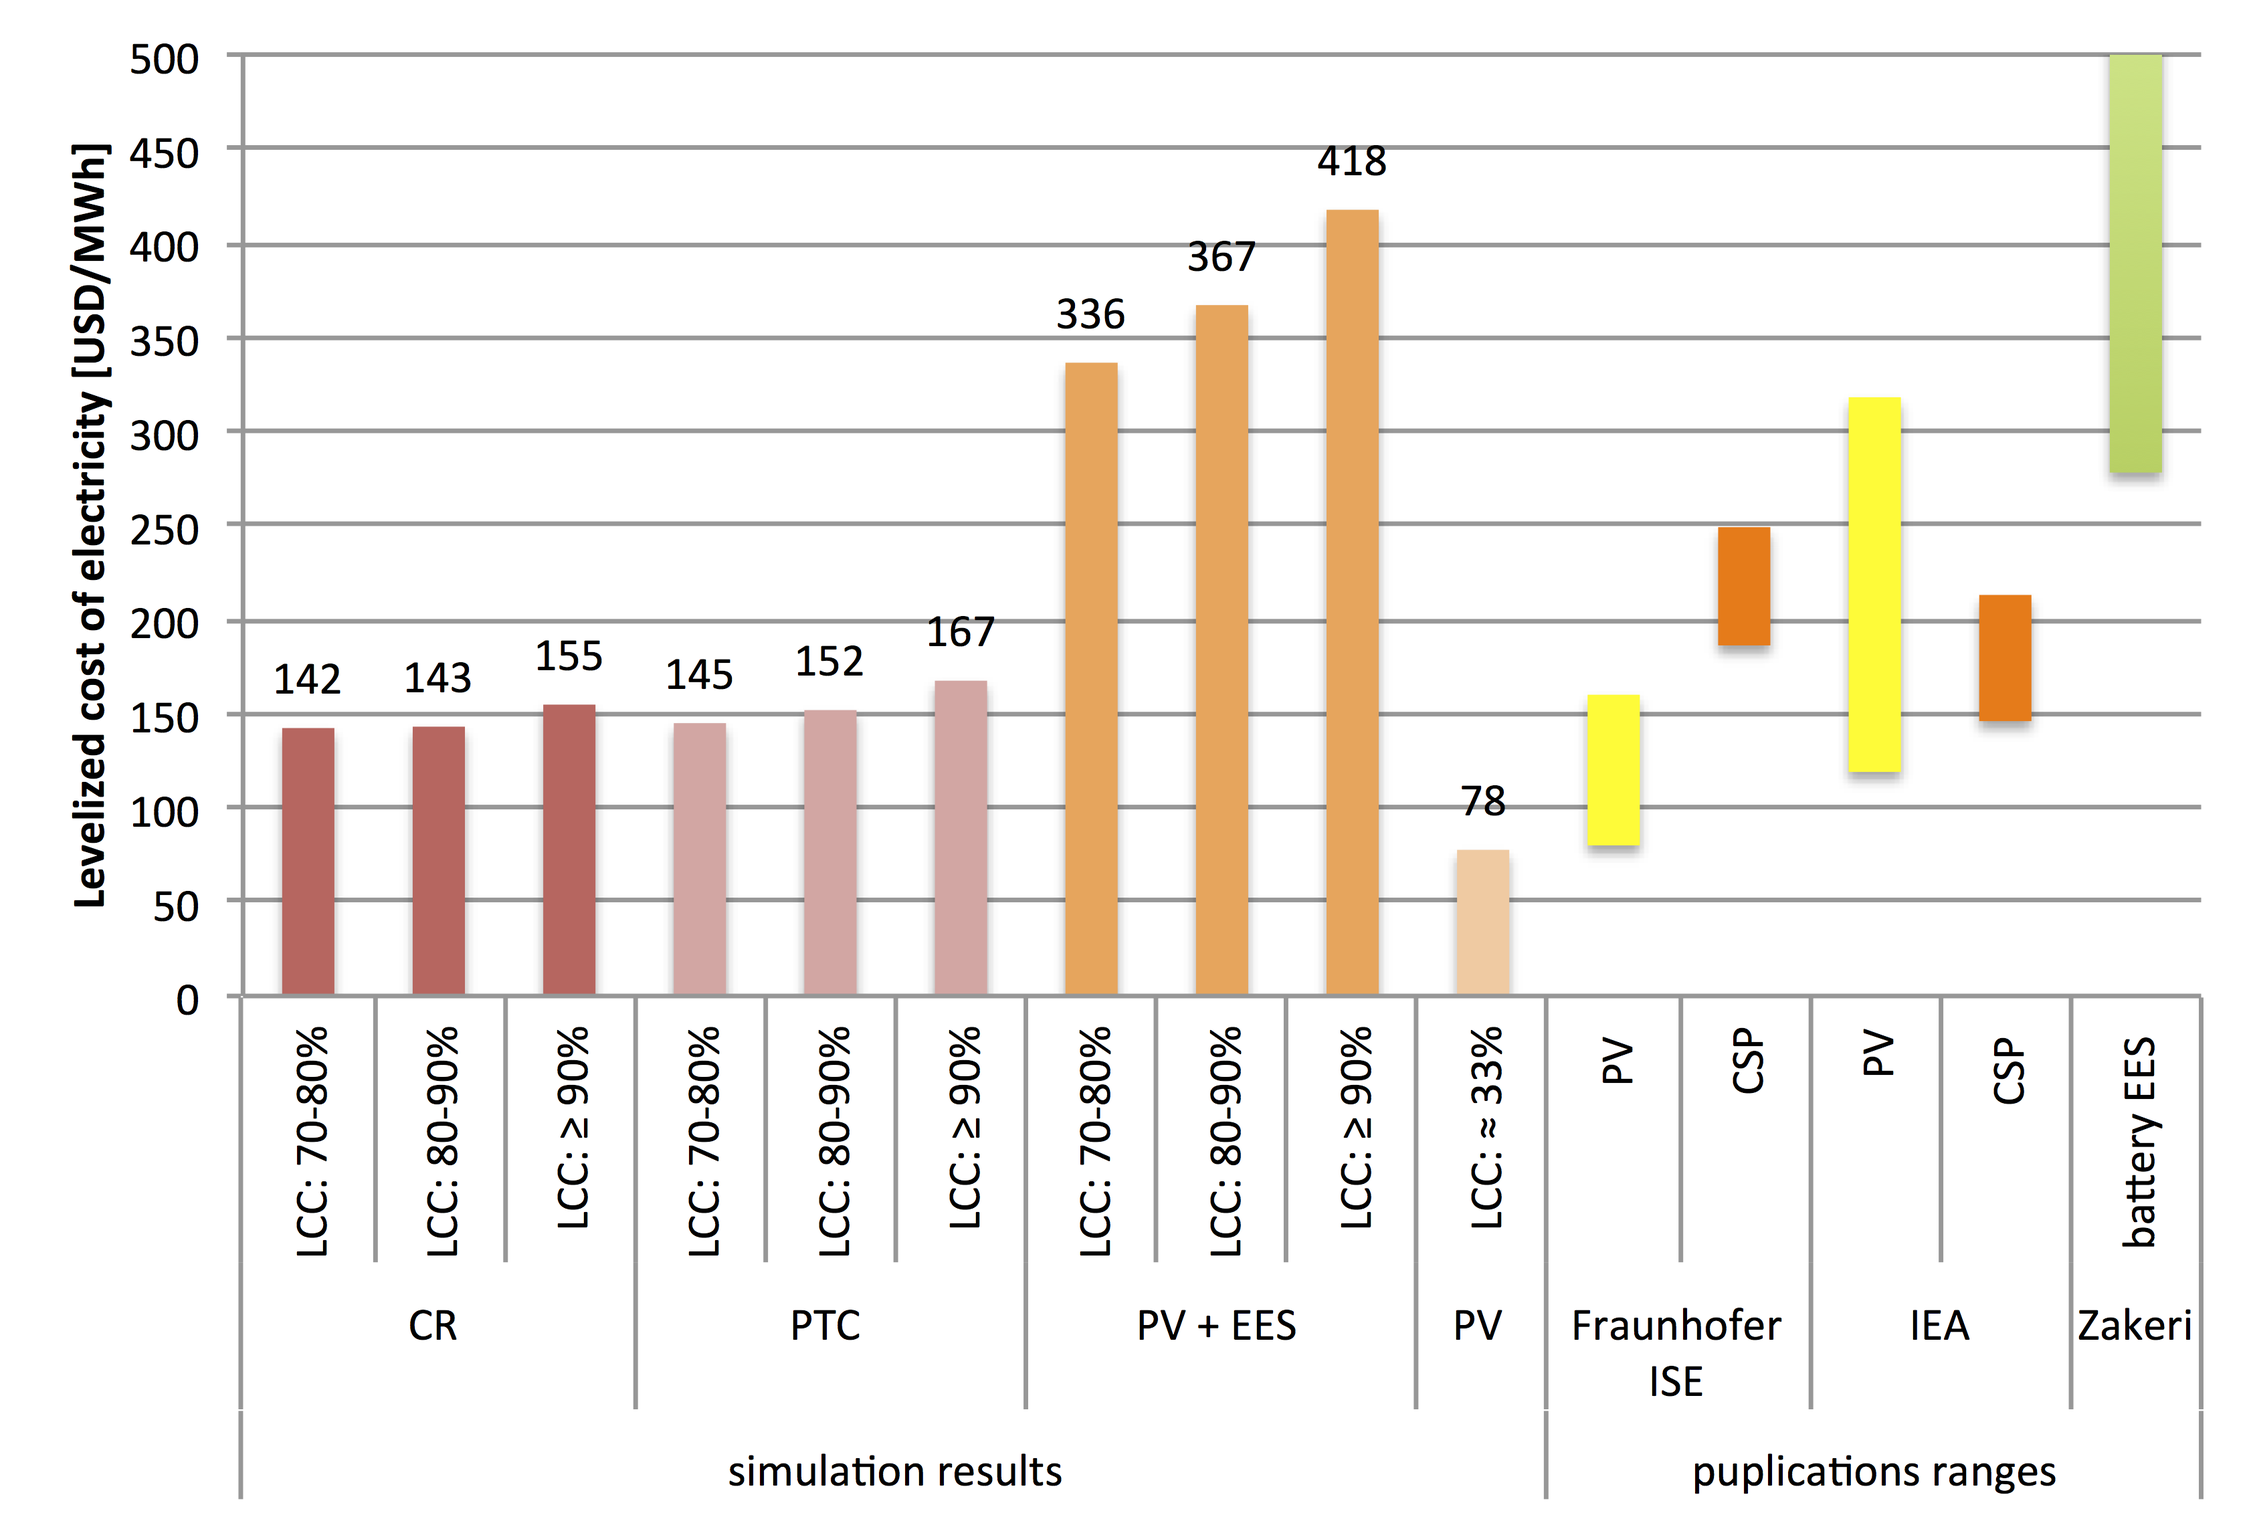
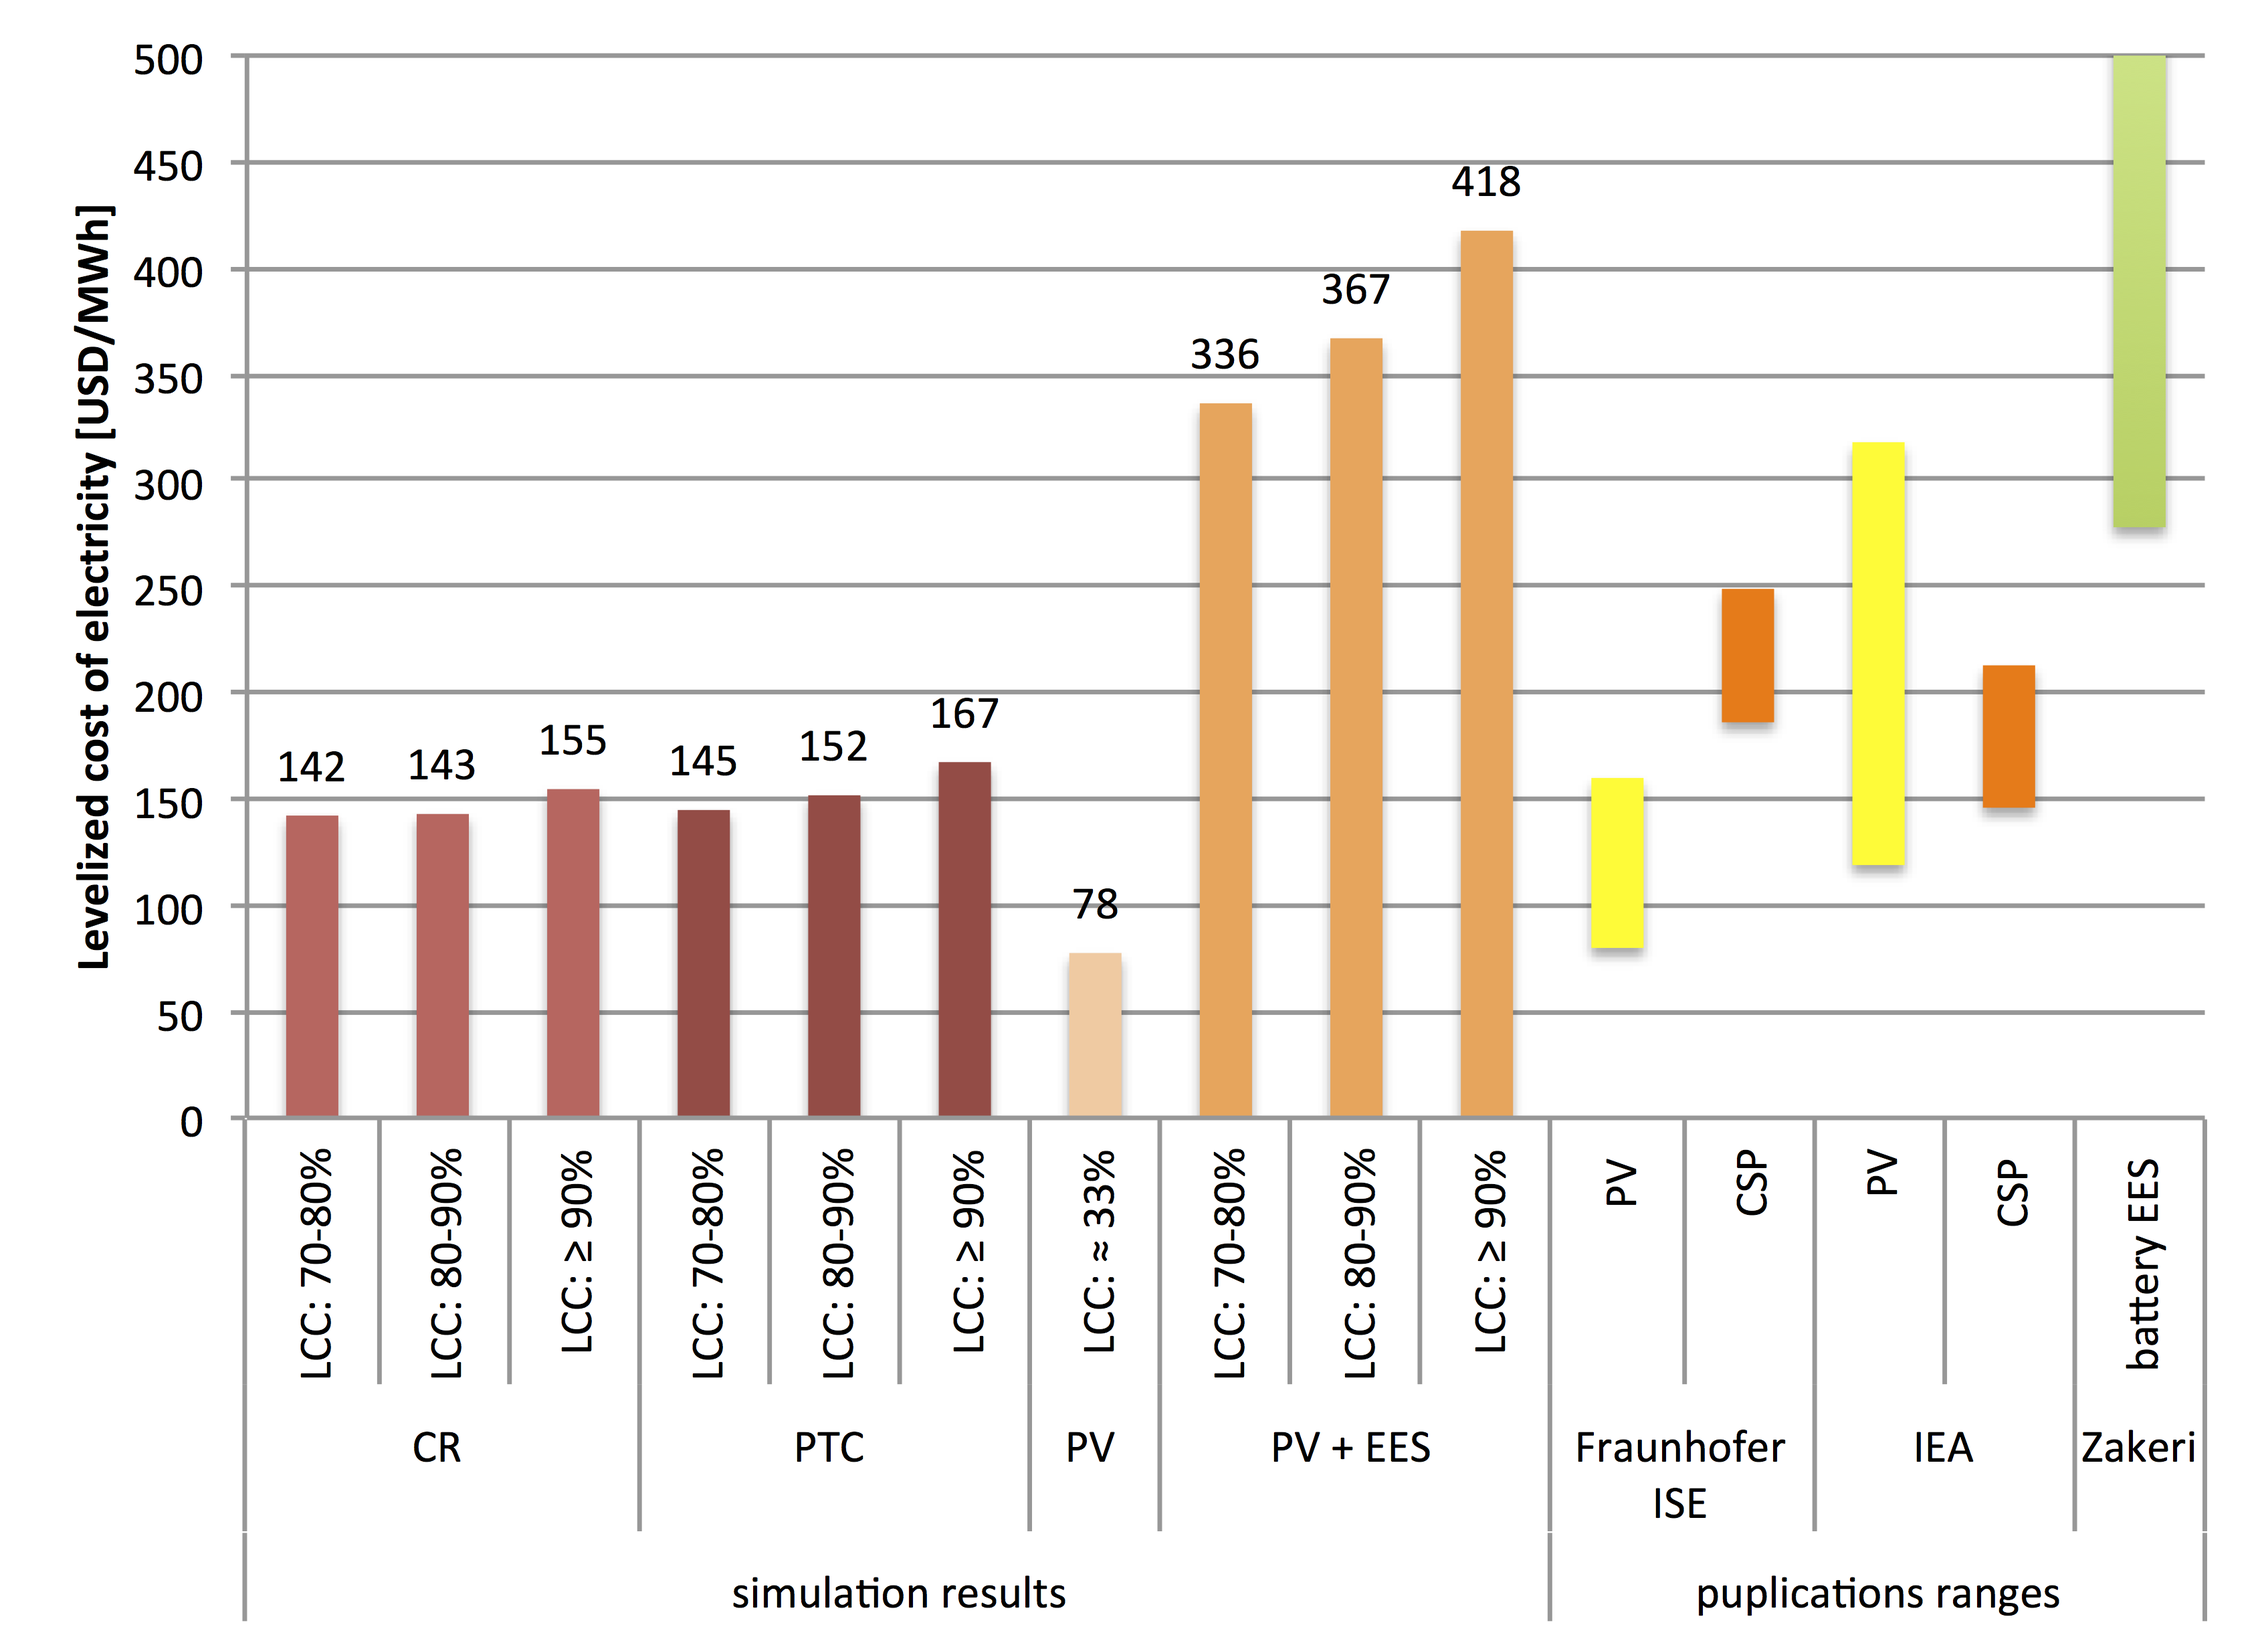
Grafiken angepasst

diff --git a/result_comparison.tex b/result_comparison.tex
@@ -83,36 +83,34 @@ The comparison shows that all solar power plants are able to cover the predicted
 \includegraphics[width=1\linewidth]{FIG/LCOEcomparision}
 \caption[Summary of calculated LCOE results of simulated solar power plants compared with public projections.]{Summary of calculated LCOE results of simulated solar power plants compared with public projections.}\label{LCOEcomparision}
 \end{figure}
-It can be seen that the PV system without EES reaches with \SI{78}{USD/MWh} the lowest LCOE of the simulated power plants, but therby it covers the load curve just about \SI{33}{\percent}. In comparison with other projections can be seen that the PV system in Upington reaches an extreamly low LCOE result. The Fraunhofer ISE institute names the LCOE range\footnote{PV system LCOE result rages from \SIrange{60}{120}{EUR/GWh} by using \SI{7.5}{\percent} interest rate \cite{FraunhoferISE2013} at an avarage exchange rate in 2013 and 2014 of \SI{1.33}{USD/EUR} \cite{StatistaGmbH2015}.} for PV systems in 2013 between 80 and \SI{160}{USD/GWh} for areas with a GHI of \SIrange{1450}{2000}{\kilo\watt\hour\per\square\metre\per\year} \cite{FraunhoferISE2013}. When using the higher GHI value of Upington and the lower assumed invest costs the calculated LCOE seams realistic. The International Energy Agency (IEA) published the LCOE vlaues for the year 2015 in there annual report of "Tracking Clean Energy Progress 2014" more conservative \cite{IEA2014c}.
+It can be seen that the PV system without EES reaches with \SI{78}{USD/MWh} the lowest LCOE of the simulated power plants, but therby it covers the load curve just about \SI{33}{\percent}. In comparison with other projections can be seen that the PV system in Upington reaches an extreamly low LCOE result. The Fraunhofer ISE institute names the LCOE range\footnote{PV system LCOE result rages from \SIrange{60}{120}{EUR/GWh} by using a WACC of \SI{4.7}{\percent}  \cite{FraunhoferISE2013} at an avarage exchange rate in 2013 and 2014 of \SI{1.33}{USD/EUR} \cite{StatistaGmbH2015}.} for PV systems in 2013 between 80 and \SI{160}{USD/GWh} for areas with a GHI of \SIrange{1450}{2000}{\kilo\watt\hour\per\square\metre\per\year} \cite{FraunhoferISE2013}. When including the higher GHI value of Upington (\SI{2280}{\kilo\watt\hour\per\square\metre\per\year}) and the lower assumed invest costs than in 2013 the calculated LCOE seams realistic. The International Energy Agency (IEA) published the LCOE values for the year 2015 in there annual report of "Tracking Clean Energy Progress 2014" more conservative \cite{IEA2014c}.
 
 The lowest LCOE calculation results of the simulated solar power plants which covers more than \SI{90}{\percent} of the predicted load curve has the CR power plant with about \SI{155}{USD/MWh}. The CR power plant in generally reaches the lowest LCOE values while having a high load curve covering rate. Also the LCOE result of the PTC power plant is with \SI{167}{USD/MWh} relatively low. When comparing this values with the projections of Fraunhofer ISE institute from 2013 the results looking quite optimistic. But when comparing with the electricity cost range from the IEA publication the CSP simulation results seams realistic.
 
-The LCOE calculation results of the simulated PV system with adapted EEES is by far the most expansive solution for suppling the prescribed load. The lowest LCOE for reaching \SI{90}{\percent} LCC is more than twice that high than from the CSP options. For the comparison also must be remembered, that the costs of the EES storage part was assumed extremely low in comparison with the average marked price (Page~\pageref{SUBSUBPVFinancialparameter}). But when using other optimistic LCOE calculations of battery EES the result seams realistic. There are optimistic puplications calculated a LCOE of a battery EES with about \SI{200}{USD/MWh} pure storage costs \cite{Corcuera2015}. Also other publications can confirmed this result for EES. The range\footnote{EES sysfem LCOE result ranges from \SIrange{209}{617}{EUR/MWh} by using an energy price of \SI{50}{EUR/MWh} and \SI{8}{\percent} interest rate \cite{Zakeri2015} at an avarage exchange rate in 2013 and 2014 of 1.33 USD/EUR \cite{StatistaGmbH2015}.} of LCOE for battery storage is named there between \SIlist{278;821}{USD/MWh}. However he results the LCOE of the Li-Ion battery at the top end.
-
-
-
+The LCOE calculation results of the simulated PV system with adapted EES is by far the most expansive solution for suppling the prescribed load. The lowest LCOE for reaching \SI{90}{\percent} LCC is more than twice that high than from the CSP options. For the comparison also must be remembered, that the costs of the EES storage part was assumed extremely low in comparison with the average marked price (Page~\pageref{SUBSUBPVFinancialparameter}). But when using other optimistic LCOE calculations of battery EES the result seams realistic. There are optimistic puplications calculated a LCOE of a battery EES with about \SI{200}{USD/MWh} pure storage costs \cite{Corcuera2015}. Also other publications can confirmed this result for EES. The range\footnote{EES sysfem LCOE result ranges from \SIrange{209}{617}{EUR/MWh} by using an energy price of \SI{50}{EUR/MWh} and \SI{8}{\percent} WACC rate \cite{Zakeri2015} at an avarage exchange rate in 2013 and 2014 of 1.33 USD/EUR \cite{StatistaGmbH2015}.} of LCOE for battery storage is named there between \SIlist{278;821}{USD/MWh}. However he results the LCOE of the Li-Ion battery at the top end.
 
 \begin{figure}[!htbp]
         \centering                
         \begin{subfigure}[b]{0.5\textwidth}
                 \centering
                 \includegraphics[width=1\textwidth]{FIG/CR_LCOE_90_BreakDown}
-                \caption{LCOE break-down for .}\label{CR_LCOE_90_BreakDown}
+                \caption{CR at \SI{90}{\percent} LCC.}\label{CR_LCOE_90_BreakDown}
         \end{subfigure}%
         ~
         \begin{subfigure}[b]{0.5\textwidth}
                 \centering
                 \includegraphics[width=1\textwidth]{FIG/PTC_LCOE_90_BreakDown}
-                \caption{LCOE break-down for .}\label{PTC_LCOE_90_BreakDown}
+                \caption{PTC at \SI{90}{\percent} LCC.}\label{PTC_LCOE_90_BreakDown}
         \end{subfigure}
 \par\medskip % Linebreak   
         \begin{subfigure}[b]{0.5\textwidth}
                 \centering
                 \includegraphics[width=1\textwidth]{FIG/PV_LCOE_90_BreakDown}
-                \caption{LCOE break-down for .}\label{PV_LCOE_90_BreakDown}
+                \caption{PV with adapted EES at \SI{90}{\percent} LCC.}\label{PV_LCOE_90_BreakDown}
         \end{subfigure}
-        \caption[Break-down of selected LCOE calculation results of PV systems with adapted EES.]{Break-down of selected LCOE calculation results of PV systems with adapted EES.}\label{SMPV_LCOE_BreakDown}
+        \caption[Break-down of selected LCOE calculation results.]{Break-down of selected LCOE calculation results.}\label{SMPV_LCOE_BreakDown}
 \end{figure}
+
 
 \begin{figure}[htbp]  
 \centering
@@ -120,7 +118,7 @@ The LCOE calculation results of the simulated PV system with adapted EEES is by 
 \caption[]{}\label{investmentcost}
 \end{figure}
 
-Li-ion\cite{Nykvist2015}
+
 
 \begin{figure}[htbp]  
 \centering
